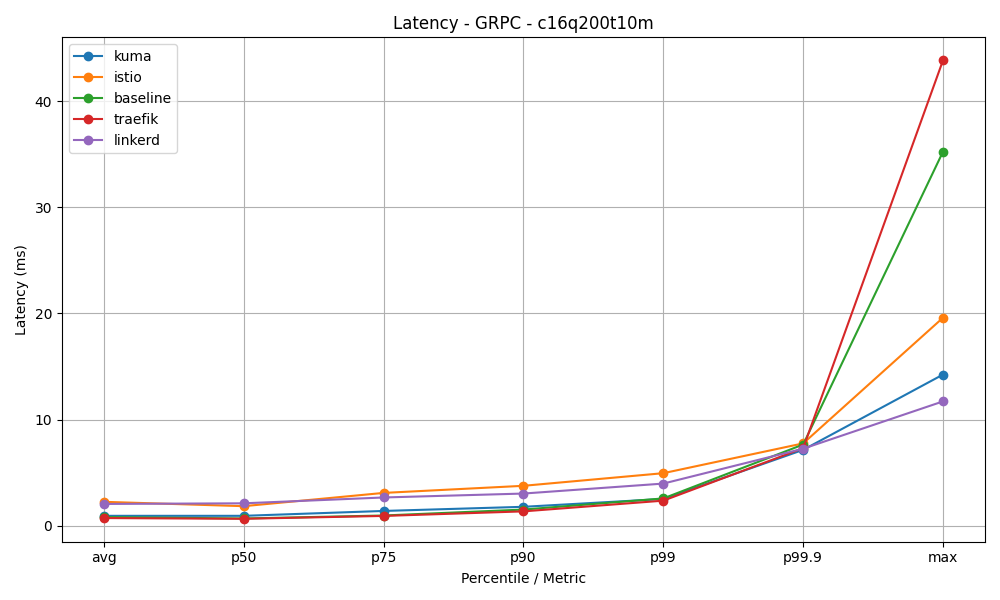
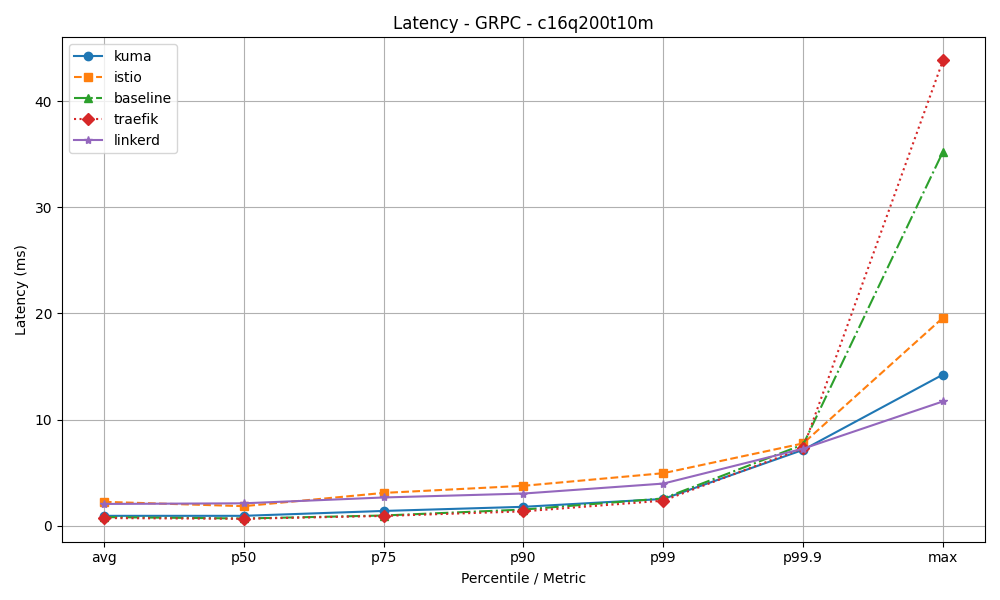
Change line style and hatch pattern for diagrams to enhance visualize on grayscale print

diff --git a/benchmark/scripts/data/usage_qualitative_scores.py b/benchmark/scripts/data/usage_qualitative_scores.py
@@ -1,0 +1,67 @@
+import pandas as pd
+import matplotlib.pyplot as plt
+import os
+
+# === CONFIGURATION ===
+DATA_PATH = "usage_qualitative_scores.csv"  # CSV file chứa dữ liệu
+OUTPUT_PATH = "usage_qualitative_scores.png"
+
+# === COLOR MAP ===
+COLOR_MAP = {
+    "istio": "#1f77b4",
+    "linkerd": "#ff7f0e",
+    "kuma": "#2ca02c",
+    "traefik": "#d62728",
+    "consul": "#9467bd",
+    "aws app mesh": "#8c564b"
+}
+
+# === HATCH PATTERN MAP ===
+HATCH_MAP = {
+    "istio": "//",
+    "linkerd": "\\\\",
+    "kuma": "xx",
+    "traefik": "--",
+    "consul": "..",
+    "aws app mesh": "||"
+}
+
+# === LOAD DATA ===
+df = pd.read_csv(DATA_PATH, index_col=0)
+
+# === PLOT ===
+fig, ax = plt.subplots(figsize=(10, 6))
+
+bar_width = 0.12
+x = range(len(df.index))
+
+for i, mesh in enumerate(df.columns):
+    mesh_key = mesh.lower().strip()
+    color = COLOR_MAP.get(mesh_key, "#7f7f7f")
+    hatch = HATCH_MAP.get(mesh_key, "")
+
+    bars = ax.bar(
+        [p + i * bar_width for p in x],
+        df[mesh],
+        width=bar_width,
+        color=color,
+        edgecolor='black',  # Viền đen
+        label=mesh
+    )
+    for bar in bars:
+        bar.set_facecolor(color)
+        bar.set_hatch(hatch)
+
+ax.set_ylabel("Score")
+ax.set_xlabel("Mức đáp ứng")
+ax.set_title("Qualitative Evaluation of Service Meshes (Usage)")
+
+# Đặt label trục x như yêu cầu: "Vượt tiêu chí", "Đạt tiêu chí", "Không đạt", "Tổng điểm"
+ax.set_xticks([p + (len(df.columns) / 2 - 0.5) * bar_width for p in x])
+ax.set_xticklabels(["Vượt tiêu chí", "Đạt tiêu chí", "Không đạt", "Tổng điểm"], rotation=0)
+
+ax.legend()
+ax.grid(axis="y", linestyle="--", linewidth=0.5)
+plt.tight_layout()
+plt.savefig(OUTPUT_PATH)
+print(f"Saved chart to {OUTPUT_PATH}")

diff --git a/benchmark/scripts/data/characteristic_qualitative_scores.py b/benchmark/scripts/data/characteristic_qualitative_scores.py
@@ -1,0 +1,65 @@
+import pandas as pd
+import matplotlib.pyplot as plt
+import os
+
+# === CONFIGURATION ===
+DATA_PATH = "characteristic_qualitative_scores.csv"
+OUTPUT_PATH = "characteristic_qualitative_scores.png"
+
+# === COLOR MAP ===
+COLOR_MAP = {
+    "istio": "#1f77b4",
+    "linkerd": "#ff7f0e",
+    "kuma": "#2ca02c",
+    "traefik": "#d62728",
+    "consul": "#9467bd",
+    "aws app mesh": "#8c564b"
+}
+
+# === HATCH MAP ===
+HATCH_MAP = {
+    "istio": "//",
+    "linkerd": "\\\\",
+    "kuma": "xx",
+    "traefik": "--",
+    "consul": "..",
+    "aws app mesh": "||"
+}
+
+# === LOAD DATA ===
+df = pd.read_csv(DATA_PATH, index_col=0)
+
+# === PLOT ===
+fig, ax = plt.subplots(figsize=(10, 6))
+
+bar_width = 0.12
+x = range(len(df.index))
+
+for i, mesh in enumerate(df.columns):
+    mesh_key = mesh.lower().strip()
+    color = COLOR_MAP.get(mesh_key, "#7f7f7f")
+    hatch = HATCH_MAP.get(mesh_key, "")
+
+    bars = ax.bar(
+        [p + i * bar_width for p in x],
+        df[mesh],
+        width=bar_width,
+        color=color,
+        edgecolor='black',  # Viền đen
+        label=mesh
+    )
+    # Thêm hatch đúng cách
+    for bar in bars:
+        bar.set_facecolor(color)  # Đảm bảo màu vẫn hiển thị
+        bar.set_hatch(hatch)
+
+ax.set_xlabel("Metric")
+ax.set_ylabel("Score")
+ax.set_title("Qualitative Evaluation of Service Meshes")
+ax.set_xticks([p + (len(df.columns) / 2 - 0.5) * bar_width for p in x])
+ax.set_xticklabels(df.index, rotation=0)
+ax.legend()
+ax.grid(axis="y", linestyle="--", linewidth=0.5)
+plt.tight_layout()
+plt.savefig(OUTPUT_PATH)
+print(f"Saved chart to {OUTPUT_PATH}")

diff --git a/benchmark/scripts/k6_throughput_chart.py b/benchmark/scripts/k6_throughput_chart.py
@@ -53,15 +53,22 @@ def extract_k6_throughput(init_benchmark_times):
     return averaged
 
 def plot_line_chart(case_data, run_id):
+    # Thêm marker style và line style để phân biệt đen trắng, nhưng vẫn giữ nguyên màu
+    marker_styles = ['o', 's', '^', 'D', '*', 'v', 'x', '+']
+    line_styles = ['-', '--', '-.', ':']
+
     plt.figure(figsize=(10, 6))
     mesh_names = set()
     for case in case_data:
         mesh_names.update(case_data[case].keys())
 
     mesh_names = sorted(mesh_names)
-    for mesh in mesh_names:
+    for i, mesh in enumerate(mesh_names):
+        marker = marker_styles[i % len(marker_styles)]
+        line_style = line_styles[i % len(line_styles)]
+        color = COLOR_MAP.get(mesh, None)
         values = [case_data[case].get(mesh, 0) for case in sorted(case_data)]
-        plt.plot(sorted(case_data), values, marker="o", label=mesh, color=COLOR_MAP.get(mesh, None))
+        plt.plot(sorted(case_data), values, marker=marker, linestyle=line_style, color=color, label=mesh)
 
     plt.title("Throughput - HTTP (K6)")
     plt.xlabel("Test Case")
@@ -81,7 +88,8 @@ def plot_bar_charts(case_data, run_id):
         colors = [COLOR_MAP.get(mesh, "#7f7f7f") for mesh in meshes]
 
         plt.figure(figsize=(8, 6))
-        bars = plt.bar(meshes, values, color=colors)
+        bars = plt.bar(meshes, values, color=colors, edgecolor='black')  # Giữ màu, viền đen cho rõ
+
         plt.title(f"Throughput - K6 - {case}")
         plt.xlabel("Service Mesh")
         plt.ylabel("Request Rate (req/s)")

diff --git a/benchmark/scripts/k6_error_rate_chart.py b/benchmark/scripts/k6_error_rate_chart.py
@@ -57,15 +57,22 @@ def extract_k6_error_rate(init_benchmark_times):
     return averaged
 
 def plot_line_chart(case_data, run_id):
+    # Thêm marker style và line style để phân biệt đen trắng, nhưng vẫn giữ nguyên màu
+    marker_styles = ['o', 's', '^', 'D', '*', 'v', 'x', '+']
+    line_styles = ['-', '--', '-.', ':']
+
     plt.figure(figsize=(10, 6))
     mesh_names = set()
     for case in case_data:
         mesh_names.update(case_data[case].keys())
 
     mesh_names = sorted(mesh_names)
-    for mesh in mesh_names:
+    for i, mesh in enumerate(mesh_names):
+        marker = marker_styles[i % len(marker_styles)]
+        line_style = line_styles[i % len(line_styles)]
+        color = COLOR_MAP.get(mesh, None)
         values = [case_data[case].get(mesh, 0) for case in sorted(case_data)]
-        plt.plot(sorted(case_data), values, marker="o", label=mesh, color=COLOR_MAP.get(mesh, None))
+        plt.plot(sorted(case_data), values, marker=marker, linestyle=line_style, color=color, label=mesh)
 
     plt.title("Error Rate - HTTP (K6)")
     plt.xlabel("Test Case")
@@ -85,7 +92,8 @@ def plot_bar_charts(case_data, run_id):
         colors = [COLOR_MAP.get(mesh, "#7f7f7f") for mesh in meshes]
 
         plt.figure(figsize=(8, 6))
-        bars = plt.bar(meshes, values, color=colors)
+        bars = plt.bar(meshes, values, color=colors, edgecolor='black')  # Giữ màu, thêm viền đen
+
         plt.title(f"Error Rate - K6 - {case}")
         plt.xlabel("Service Mesh")
         plt.ylabel("Error Rate")

diff --git a/benchmark/scripts/k6_latency_chart.py b/benchmark/scripts/k6_latency_chart.py
@@ -52,15 +52,22 @@ def extract_k6_latency(init_benchmark_times):
     return averaged
 
 def plot_line_chart(case_data, run_id):
+    # Thêm marker style và line style nhưng vẫn giữ nguyên màu
+    marker_styles = ['o', 's', '^', 'D', '*', 'v', 'x', '+']
+    line_styles = ['-', '--', '-.', ':']
+
     plt.figure(figsize=(10, 6))
     mesh_names = set()
     for case in case_data:
         mesh_names.update(case_data[case].keys())
 
     mesh_names = sorted(mesh_names)
-    for mesh in mesh_names:
+    for i, mesh in enumerate(mesh_names):
+        marker = marker_styles[i % len(marker_styles)]
+        line_style = line_styles[i % len(line_styles)]
+        color = COLOR_MAP.get(mesh, None)
         values = [case_data[case].get(mesh, 0) for case in sorted(case_data)]
-        plt.plot(sorted(case_data), values, marker="o", label=mesh, color=COLOR_MAP.get(mesh, None))
+        plt.plot(sorted(case_data), values, marker=marker, linestyle=line_style, color=color, label=mesh)
 
     plt.title("Latency - HTTP (K6)")
     plt.xlabel("Test Case")
@@ -80,7 +87,8 @@ def plot_bar_charts(case_data, run_id):
         colors = [COLOR_MAP.get(mesh, "#7f7f7f") for mesh in meshes]
 
         plt.figure(figsize=(8, 6))
-        bars = plt.bar(meshes, values, color=colors)
+        bars = plt.bar(meshes, values, color=colors, edgecolor='black')  # Giữ màu, thêm viền đen để nổi bật
+
         plt.title(f"Latency - K6 - {case}")
         plt.xlabel("Service Mesh")
         plt.ylabel("Avg Latency (ms)")

diff --git a/benchmark/scripts/fortio_throughput_chart.py b/benchmark/scripts/fortio_throughput_chart.py
@@ -59,9 +59,15 @@ def plot_throughput_chart(protocol, init_benchmark_times, run_id):
     data = extract_throughput(protocol, init_benchmark_times)
     print(f"Aggregated throughput data ({protocol}): {data}")
 
+    # Thêm marker style và line style để phân biệt đen trắng
+    marker_styles = ['o', 's', '^', 'D', '*', 'v', 'x', '+']
+    line_styles = ['-', '--', '-.', ':']
+
     plt.figure(figsize=(10, 6))
-    for mesh, qps_list in data.items():
-        plt.plot(CASES, qps_list, marker="o", label=mesh)
+    for i, (mesh, qps_list) in enumerate(data.items()):
+        marker = marker_styles[i % len(marker_styles)]
+        line_style = line_styles[i % len(line_styles)]
+        plt.plot(CASES, qps_list, marker=marker, linestyle=line_style, label=mesh)
 
     plt.title(f"Throughput - {protocol.upper()}")
     plt.xlabel("Test Case")

diff --git a/benchmark/scripts/fortio_latency_chart.py b/benchmark/scripts/fortio_latency_chart.py
@@ -18,9 +18,15 @@ def plot_latency_chart(protocol, case_id, output_csv, output_png):
             values = list(map(float, row[1:]))
             data[mesh] = values
 
+    # Thêm marker style và line style để phân biệt đen trắng
+    marker_styles = ['o', 's', '^', 'D', '*', 'v', 'x', '+']
+    line_styles = ['-', '--', '-.', ':']
+
     plt.figure(figsize=(10, 6))
-    for mesh, values in data.items():
-        plt.plot(x_labels, values, marker="o", label=mesh)
+    for i, (mesh, values) in enumerate(data.items()):
+        marker = marker_styles[i % len(marker_styles)]
+        line_style = line_styles[i % len(line_styles)]
+        plt.plot(x_labels, values, marker=marker, linestyle=line_style, label=mesh)
 
     plt.title(f"Latency - {str(protocol).upper()} - {case_id}")
     plt.xlabel("Percentile / Metric")

diff --git a/benchmark/scripts/fortio_error_rate_chart.py b/benchmark/scripts/fortio_error_rate_chart.py
@@ -64,9 +64,15 @@ def extract_error_rates(protocol, timestamps):
 def plot_error_rate_chart(protocol, timestamps, run_id):
     data = extract_error_rates(protocol, timestamps)
 
+    # Thêm marker style và line style để phân biệt đen trắng
+    marker_styles = ['o', 's', '^', 'D', '*', 'v', 'x', '+']
+    line_styles = ['-', '--', '-.', ':']
+
     plt.figure(figsize=(10, 6))
-    for mesh, error_list in data.items():
-        plt.plot(CASES, error_list, marker="o", label=mesh)
+    for i, (mesh, error_list) in enumerate(data.items()):
+        marker = marker_styles[i % len(marker_styles)]
+        line_style = line_styles[i % len(line_styles)]
+        plt.plot(CASES, error_list, marker=marker, linestyle=line_style, label=mesh)
 
     plt.title(f"Error Rate - {protocol.upper()}")
     plt.xlabel("Test Case")

diff --git a/benchmark/scripts/plot_startup_time.py b/benchmark/scripts/plot_startup_time.py
@@ -23,12 +23,17 @@ averages = df.drop(columns=["Time"]).mean()
 
 # === PLOT ===
 plt.figure(figsize=(8, 5))
-colors = [COLOR_MAP.get(mesh.lower(), "#7f7f7f") for mesh in averages.index]
-averages.plot(kind="bar", color=colors)
+bars = plt.bar(
+    averages.index,
+    averages.values,
+    color=[COLOR_MAP.get(mesh.lower(), "#7f7f7f") for mesh in averages.index],
+    edgecolor='black'  # Thêm viền đen
+)
+
 plt.title("Average Startup Time of Service Meshes")
 plt.xlabel("Service Mesh")
 plt.ylabel("Startup Time (seconds)")
-plt.grid(axis="y")
+plt.grid(axis="y", linestyle="--", linewidth=0.5)
 plt.tight_layout()
 plt.savefig(OUTPUT_PATH)
 print(f"Saved chart to {OUTPUT_PATH}")
